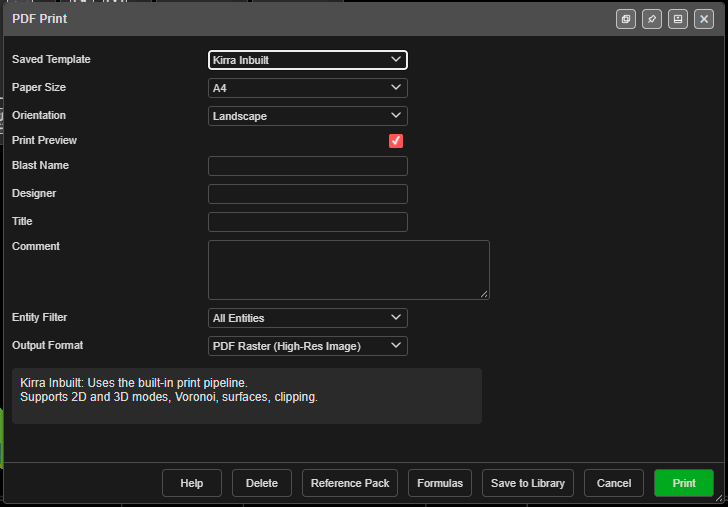
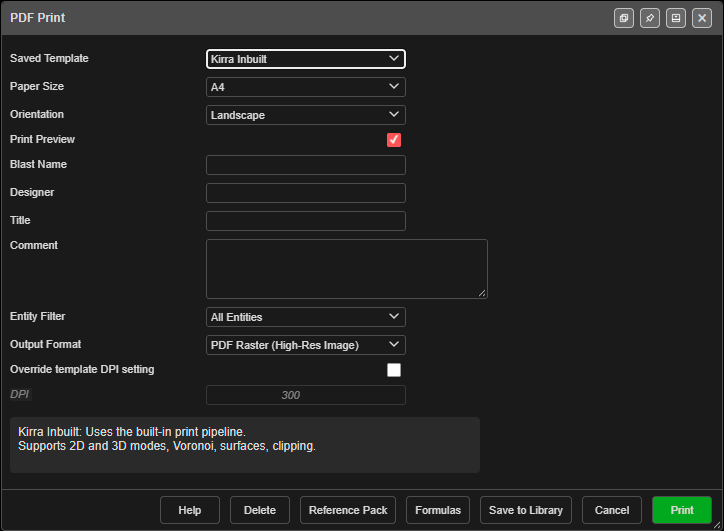
Printing docs: DPI, paper override, dateformat, Excel text; desktop zip
- Print from Template: Override template DPI setting and DPI; Image DPI
  in Print Settings (Print to PDF); printing a sheet on other paper;
  font family, Shrink to fit, Indent and symbols from Excel; JPEG
  imagery keeps PDFs small.
- Print Formula Reference: dateformat(value, format, days), day and
  month name tokens, a DPI note under Map View. Examples checked
  against Kirra's own evaluator.
- ECW Imagery: prints read the ECW at the print DPI, not screen detail.
- Overview: desktop installers and the Windows no-install zip,
  WebView2 and SmartScreen notes.
- Interface Tour: the two DPI controls.
- Screenshots: PDF Print dialog retaken with the DPI controls; new
  Print Settings dialog.

diff --git a/printing/xlsx-templates.md b/printing/xlsx-templates.md
@@ -11,7 +11,7 @@ Click the **Import Export Print** button (file icon) in the menu bar and choose 
 ![PDF Print dialog](../screenshots/PDFPrintDialog.png)
 *The PDF Print dialog.*
 
-The dialog's main fields are **Saved Template**, **Paper Size** and **Orientation** (**From Sheet** uses the custom template's own setting), **Print Preview**, **Blast Name**, **Designer**, **Title**, **Comment**, **Entity Filter** and **Output Format**. Footer buttons: **Save to Library**, **Formulas**, **Reference Pack**, **Delete**, **Help**, and **Print**.
+The dialog's main fields are **Saved Template**, **Paper Size** and **Orientation** (**From Sheet** uses the custom template's own setting), **Print Preview**, **Blast Name**, **Designer**, **Title**, **Comment**, **Entity Filter**, **Output Format**, **Override template DPI setting** and **DPI**. Footer buttons: **Save to Library**, **Formulas**, **Reference Pack**, **Delete**, **Help**, and **Print**.
 
 ---
 
@@ -27,6 +27,26 @@ The **Kirra Inbuilt** template is a built-in report format that requires no setu
 - Paper size and orientation chosen in the dialog (XLSX output is not available)
 
 Choose Kirra Inbuilt when you want a quick, standard report without creating a custom template.
+
+From this dialog, Kirra Inbuilt prints aerial images at 300 DPI. To choose a different resolution, use the **Print to PDF** button instead (below).
+
+#### Image DPI (Print to PDF)
+
+The **Print to PDF** button in **Print Management** (left sidenav ☰) prints the Kirra Inbuilt layout through the **Print Settings** dialog. Its **Image DPI** field sets the resolution of aerial images on the page.
+
+![Print Settings dialog](../screenshots/PrintSettingsDialog.png)
+*The Print Settings dialog, with Image DPI at its default of 300.*
+
+| Setting | Value |
+|---------|-------|
+| Range | 72 to 600 |
+| Default | 300 |
+| Remembered | Yes, for the next print |
+
+- **ECW imagery** is read again from its file at this resolution, up to the detail the file holds. A higher DPI gives a sharper print.
+- **GeoTIFF imagery** cannot gain detail it does not have. A higher DPI only makes a bigger PDF.
+- **High-Res Image PDF** pages stop at 300, whatever you enter.
+- Higher values take longer to make and give a bigger PDF.
 
 ### Custom XLSX Templates
 
@@ -52,6 +72,46 @@ Kirra print cells use the **`fx:`** print-template engine (not Deck Builder char
 4. **Output** — Choose PDF (raster or vector) or a populated XLSX spreadsheet
 
 For large templates, Kirra uses a background process to parse the file. A progress dialog appears so the interface stays responsive.
+
+---
+
+## Paper Size and Orientation
+
+**From Sheet** (the default) prints each sheet at the paper size and orientation set in Excel's Page Setup. Excel sheets set to A2, A5, B4 or B5 print at that size.
+
+Pick a size in **Paper Size** or **Orientation** to print on different paper without editing the template:
+
+- Choices are **A4**, **A3**, **A2**, **A1**, **A0**, **Letter**, **Legal** and **Tabloid**.
+- The sheet is enlarged (or reduced) to fit the new page, keeping its proportions, and centred.
+- For example, an A3 template printed on **A1** is drawn at twice the size.
+- Map views gain resolution with the enlargement, so they stay sharp on the bigger page.
+
+---
+
+## Map View Resolution (DPI)
+
+Each `mapView` formula can carry its own DPI, for example `fx:mapView(r, 300)`. The two DPI controls in the dialog decide whether that number is used.
+
+| Override template DPI setting | What prints |
+|------|-------------|
+| Unticked (default) | Raster map views use the DPI in their formula, or 200 if it has none. Vector map views draw their aerial images at 200. |
+| Ticked | Every map view, raster or vector, uses the **DPI** you enter for its images. |
+
+- **DPI** accepts 72 to 600 and is greyed out while the box is unticked.
+- Both settings are remembered for the next print.
+- ECW imagery is read from its file at the chosen DPI, up to the detail the file holds. See [ECW Imagery](../importing/ecw-imagery.md).
+
+---
+
+## Text from Excel
+
+Template text follows the cell formatting in your spreadsheet:
+
+- **Font family**: sans-serif fonts such as Calibri and Arial print as Helvetica. Serif fonts such as Times New Roman, Cambria and Georgia print as Times. Fixed-width fonts such as Courier and Consolas print as Courier.
+- **Bold, italic, size and colour** carry across as set in Excel.
+- **Shrink to fit**: text too wide for its cell is reduced until it fits. It is never enlarged, and wrapped cells are not shrunk, as in Excel.
+- **Indent**: each indent level moves the text in from the cell edge, as Excel does.
+- **Symbols and other alphabets**: characters such as ▬ ● ▲ ◉ print correctly, as does Russian and Mongolian text.
 
 ---
 
@@ -91,6 +151,8 @@ See [Template Examples](template-examples.md) for detailed walkthroughs of each 
 | **XLSX (Populated Spreadsheet)** | Populated spreadsheet; edit further in Excel (custom templates only) |
 
 The XLSX output option is available only when using a custom template. Use it when you need to export data to Excel for further editing or reporting.
+
+Aerial images and full-page pictures are stored in the PDF as JPEG, and everything else is compressed, so a print over imagery stays a manageable size to email.
 
 ---
 

diff --git a/printing/pdf-print.md b/printing/pdf-print.md
@@ -412,25 +412,50 @@ fx:upper(entityName) & " — " & date
 | `today()` | Today's date (dd/mm/yyyy locale) | `fx:today()` | `28/03/2026` |
 | `today(offset)` | Today plus/minus N days | `fx:today(-1)` | `27/03/2026` |
 | `now()` | Current date and time | `fx:now()` | `28/03/2026, 14:30:00` |
-| `dateformat(fmt)` | Custom formatted date | `fx:dateformat("DD/MM/YYYY")` | `28/03/2026` |
+| `dateformat(value, fmt, days)` | Format a date, optionally adding days | `fx:dateformat(today(), "DDD DD-MM-YY", 1)` | `Sun 29-03-26` |
+| `dateformat(fmt)` | Format today's date (short form) | `fx:dateformat("DD/MM/YYYY")` | `28/03/2026` |
+
+### dateformat
+
+`dateformat(value, format, days)` has three parts:
+
+| Part | What it takes |
+|------|---------------|
+| `value` | The date to format: `today()`, `now()`, a date written `DD/MM/YYYY` (with or without a time), a date written `YYYY-MM-DD`, or `""` for now |
+| `format` | The layout, built from the tokens below. Anything that is not a token prints as written |
+| `days` | Optional. Days to add, or subtract with a minus sign, e.g. `1` for tomorrow, `-7` for a week ago |
+
+With a single argument, `dateformat("DD/MM/YYYY")` formats the current date and time, so older templates keep working.
+
+If `value` is not a date, the cell shows `#ERR: not a date`.
 
 ### dateformat Tokens
 
 | Token | Description | Example |
 |-------|-------------|---------|
 | `YYYY` or `yyyy` | 4-digit year | `2026` |
+| `YY` or `yy` | 2-digit year | `26` |
+| `MMMM` | Month name | `March` |
+| `MMM` | Short month name | `Mar` |
 | `MM` | 2-digit month (zero-padded) | `03` |
+| `DDDD` or `dddd` | Day name | `Saturday` |
+| `DDD` or `ddd` | Short day name | `Sat` |
 | `DD` or `dd` | 2-digit day (zero-padded) | `28` |
 | `hh` or `HH` | 2-digit hour (24h, zero-padded) | `14` |
 | `mm` | 2-digit minute (zero-padded) | `30` |
 | `ss` | 2-digit second (zero-padded) | `00` |
 
-**Examples:**
+Longer tokens are read first, so `DDD` is always a day name and never `DD` followed by a `D`. Day and month names print in English, whatever language Kirra is set to.
+
+**Examples** (on Saturday 28 March 2026 at 14:30):
 
 ```
-fx:dateformat("YYYY-MM-DD")          → 2026-03-28
-fx:dateformat("DD/MM/YYYY hh:mm")    → 28/03/2026 14:30
-fx:dateformat("YYYY")                → 2026
+fx:dateformat("YYYY-MM-DD")                   → 2026-03-28
+fx:dateformat("DD/MM/YYYY hh:mm")             → 28/03/2026 14:30
+fx:dateformat(today(), "DDDD DD MMMM YYYY")   → Saturday 28 March 2026
+fx:dateformat(today(), "DDD DD-MM-YY", 1)     → Sun 29-03-26
+fx:dateformat(today(), "DD MMM YYYY", -7)     → 21 Mar 2026
+fx:dateformat("31/12/2026", "DDDD")           → Thursday
 ```
 
 ---
@@ -618,6 +643,8 @@ Render tokens produce **graphics** (images), not text. The merged cell area in t
 | `fx:mapView(r, 300)` | Raster map at 300 DPI (default is 200) |
 | `fx:mapView(v)` | Vector map (crisp scalable lines and text) |
 | `fx:mapView(v, 8)` | Vector map with 8pt label font size |
+
+A number above 50 after the mode is read as the DPI, and a smaller number as a label font size. Ticking **Override template DPI setting** in the PDF Print dialog replaces the DPI in every map view. See [Map View Resolution](xlsx-templates.md#map-view-resolution-dpi).
 
 ### Map View with Display Codes
 

diff --git a/getting-started/overview.md b/getting-started/overview.md
@@ -4,6 +4,19 @@
 
 ---
 
+## Desktop App
+
+Kirra is also available as a desktop app from the [downloads page](../downloads/):
+
+- **Installers** for Windows, Mac and Linux.
+- **Windows no-install zip**, for work computers where you cannot install programs. Unzip it anywhere you can save files, such as Documents, and run **Kirra-Design.exe**.
+
+The no-install zip needs the Microsoft Edge WebView2 Runtime. Windows 11 and up-to-date Windows 10 already include it. If Kirra does not open, install the runtime free from [Microsoft](https://developer.microsoft.com/microsoft-edge/webview2/).
+
+The desktop app is not code-signed, so Windows SmartScreen may warn the first time you run it. Click **More info**, then **Run anyway**. To avoid the warning, right-click the zip, choose **Properties**, tick **Unblock**, then unzip.
+
+---
+
 ## Who Is Kirra For?
 
 | Role | How Kirra Helps |

diff --git a/importing/ecw-imagery.md b/importing/ecw-imagery.md
@@ -55,8 +55,13 @@ resolution you are looking at, and draws it over the overview. Pan and it decode
 zoom out and it goes back to the overview.
 
 This works in 2D and in 3D, including a tilted 3D view, and for an ECW converted from latitude
-and longitude at import. Prints of a zoomed-in view use the same detail, so they are as sharp as
-the screen.
+and longitude at import.
+
+Prints do not depend on how far you zoomed in. When you print, Kirra reads the ECW again for the
+printed area at the print resolution, up to the detail the file holds, so a print can be sharper
+than the screen. Set the resolution with **Image DPI** (Print to PDF) or the template DPI
+controls: see [Print from Template](../printing/xlsx-templates.md#image-dpi-print-to-pdf) and
+[Map View Resolution](../printing/xlsx-templates.md#map-view-resolution-dpi).
 
 ---
 

diff --git a/getting-started/interface-tour.md b/getting-started/interface-tour.md
@@ -221,6 +221,8 @@ Opened from the **Print** button in the side panel's Print Management group, or 
 | **Blast Name**, **Designer**, **Title**, **Comment** | Free text for the title block |
 | **Entity Filter** | **All Entities**, or one blast |
 | **Output Format** | **PDF Raster (High-Res Image)**, **PDF Vector (Scalable)** or **XLSX (Populated Spreadsheet)** |
+| **Override template DPI setting** | Use the **DPI** below for every map view in a template, instead of the DPI in its formulas |
+| **DPI** | Map view image resolution, 72 to 600. Greyed out until the override is ticked. See [Map View Resolution](../printing/xlsx-templates.md#map-view-resolution-dpi) |
 
 ### Footer buttons
 
